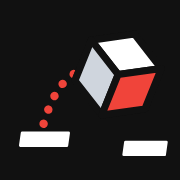
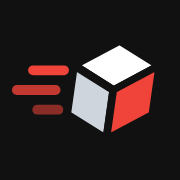
Nouvelle icône : juste le cube penché et ses traits de vitesse (onglet, iPhone, image Discord)
Claude-Session: https://claude.ai/code/session_0112hqEAr1sUPaz76QxWL8Re

Changed region(s): [[0.0556, 0.1944, 0.8611, 0.8333], [0.6667, 0.7778, 0.9444, 0.8889]]

diff --git a/index.html b/index.html
@@ -2,7 +2,7 @@
 <html lang="fr">
 <head>
 <meta charset="utf-8">
-<meta name="viewport" content="width=device-width,initial-scale=1,viewport-fit=cover"><meta name="description" content="Parkour 3D dans le navigateur : des parcours chronométrés, un niveau de la semaine et un classement entre potes."><meta name="theme-color" content="#111111"><link rel="icon" href="icon.svg" type="image/svg+xml"><link rel="icon" href="favicon-32.png" sizes="32x32" type="image/png"><link rel="apple-touch-icon" href="apple-touch-icon.png"><meta property="og:type" content="website"><meta property="og:site_name" content="Poly Rush"><meta property="og:title" content="Poly Rush"><meta property="og:description" content="Parkour 3D dans le navigateur : bats le chrono, grimpe au classement, nouveau niveau chaque semaine."><meta property="og:url" content="https://polyrush.github.io/"><meta property="og:image" content="https://polyrush.github.io/og-v4.png"><meta property="og:image:width" content="1200"><meta property="og:image:height" content="630"><meta name="twitter:card" content="summary_large_image"><meta name="twitter:image" content="https://polyrush.github.io/og-v4.png">
+<meta name="viewport" content="width=device-width,initial-scale=1,viewport-fit=cover"><meta name="description" content="Parkour 3D dans le navigateur : des parcours chronométrés, un niveau de la semaine et un classement entre potes."><meta name="theme-color" content="#111111"><link rel="icon" href="icon.svg" type="image/svg+xml"><link rel="icon" href="favicon-32.png" sizes="32x32" type="image/png"><link rel="apple-touch-icon" href="apple-touch-icon.png"><meta property="og:type" content="website"><meta property="og:site_name" content="Poly Rush"><meta property="og:title" content="Poly Rush"><meta property="og:description" content="Parkour 3D dans le navigateur : bats le chrono, grimpe au classement, nouveau niveau chaque semaine."><meta property="og:url" content="https://polyrush.github.io/"><meta property="og:image" content="https://polyrush.github.io/og-v5.png"><meta property="og:image:width" content="1200"><meta property="og:image:height" content="630"><meta name="twitter:card" content="summary_large_image"><meta name="twitter:image" content="https://polyrush.github.io/og-v5.png">
 <style>:root{color-scheme:light}body{margin:0}[hidden]{display:none!important}</style>
 </head>
 <body>
